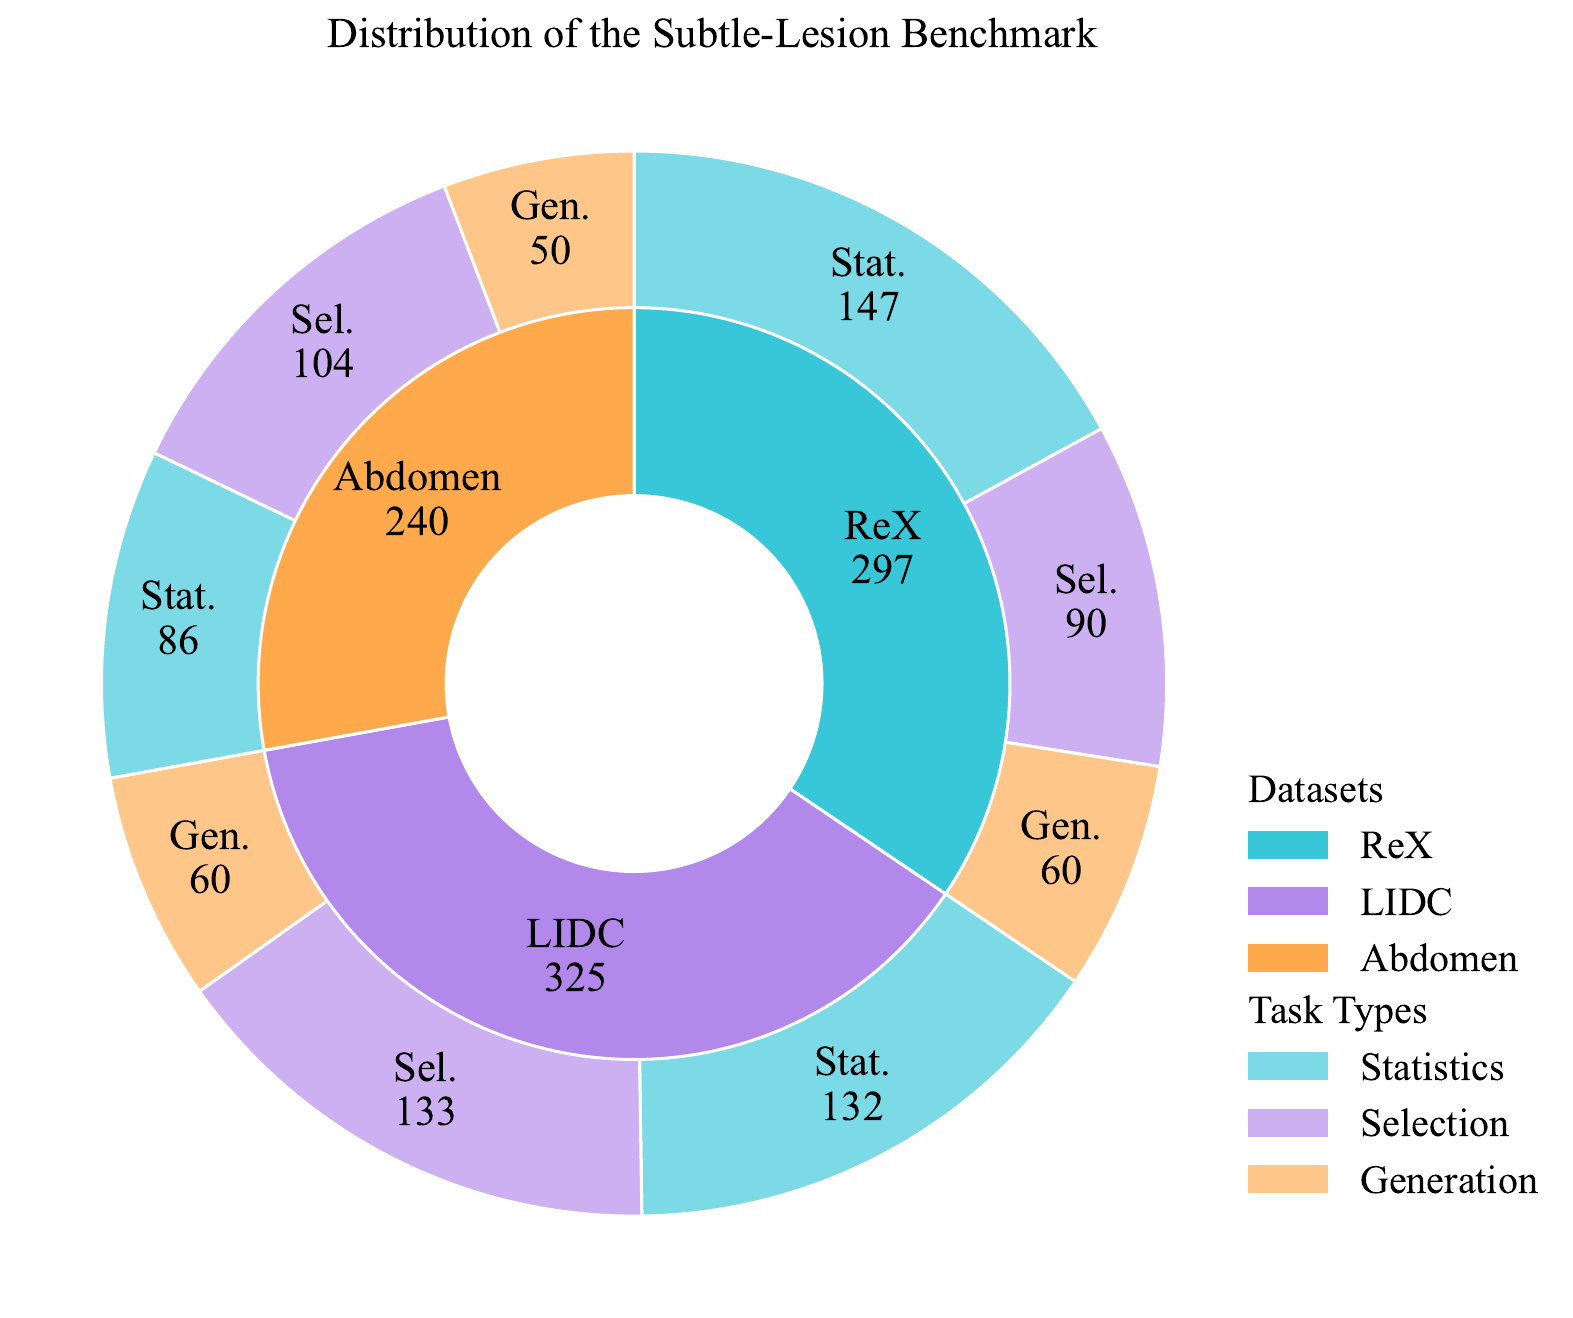
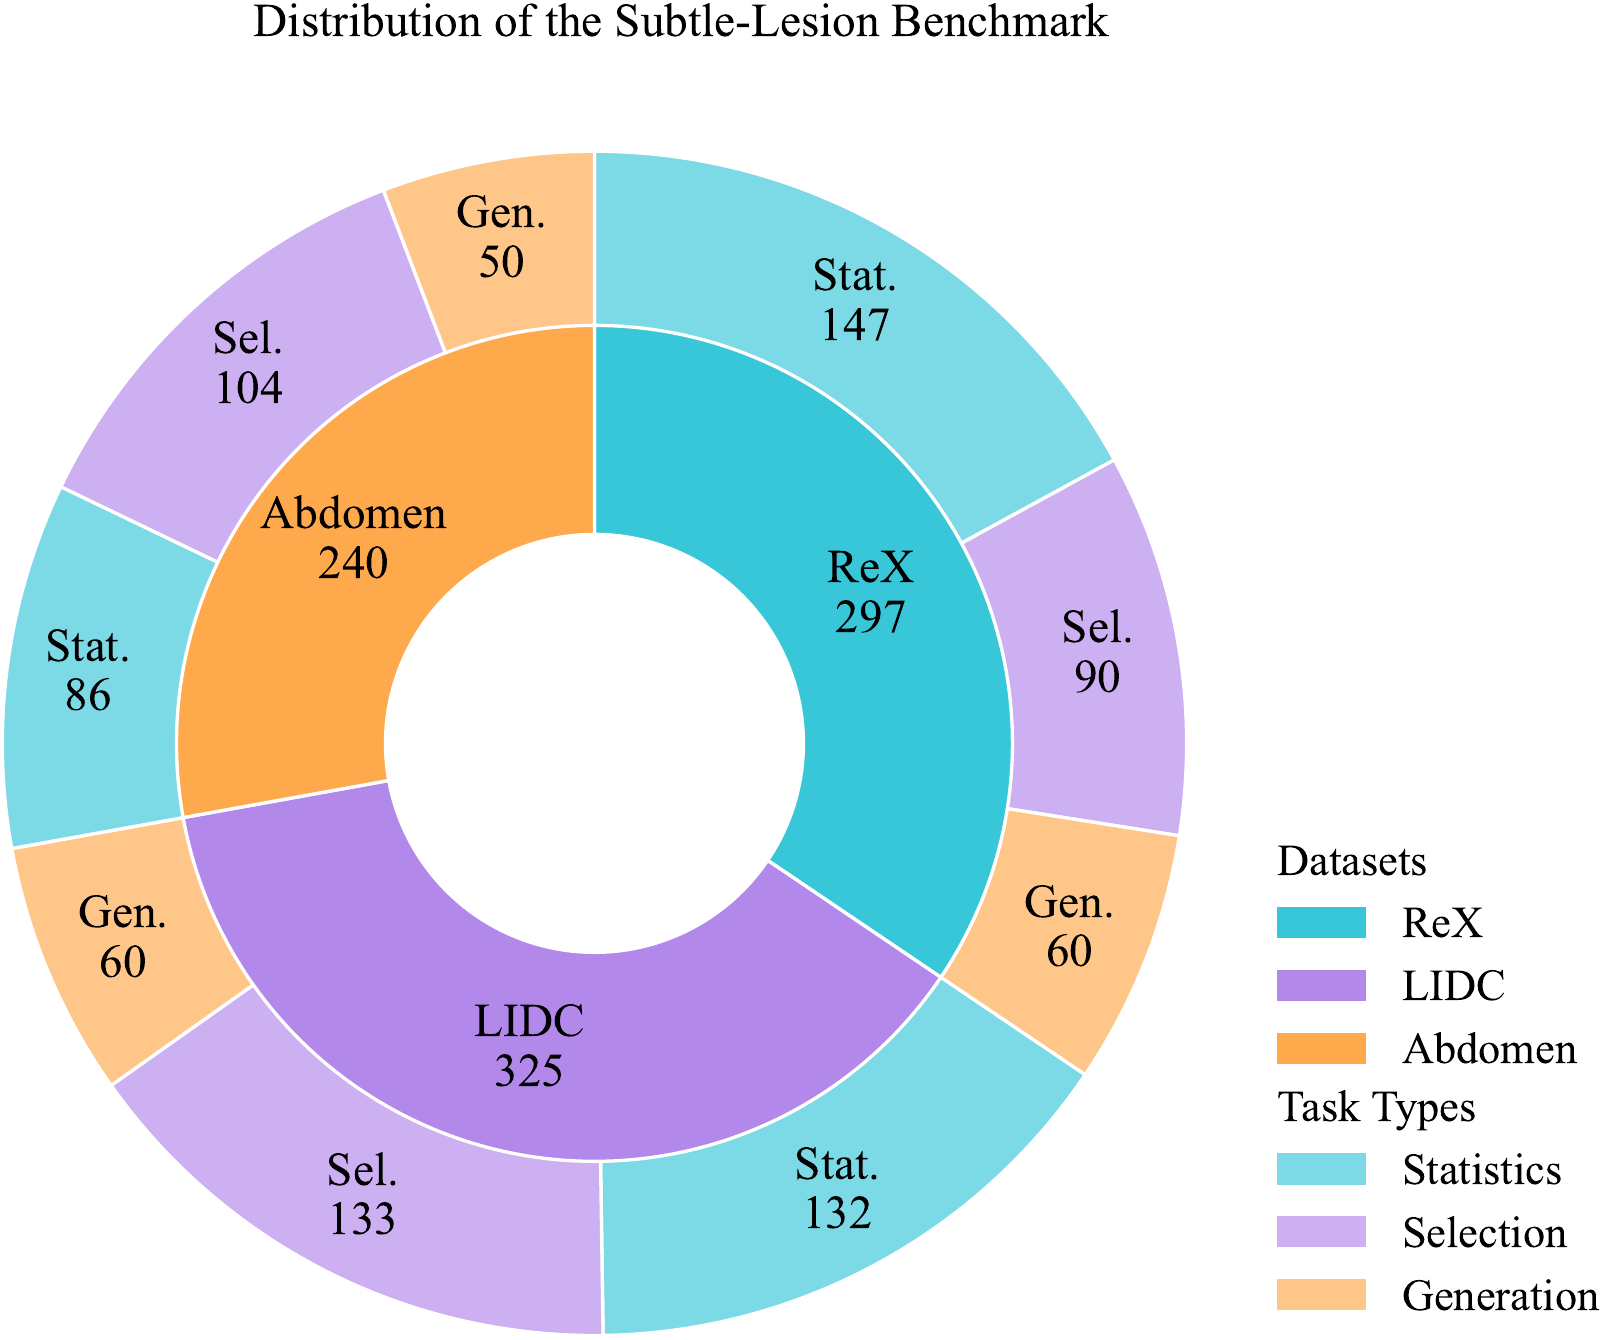
Refresh README with paper figures and usage guide

diff --git a/README.md b/README.md
@@ -1,75 +1,129 @@
-# EasyLens
+<div align="center">
 
-**A Training-Free Plug-and-Play Subtle-Lesion Representation Amplifier for Medical Vision-Language Models**
+<h1>EasyLens: A Training-Free Plug-and-Play Subtle-Lesion Representation Amplifier for Medical Vision-Language Models</h1>
 
-Paper: [arXiv:2606.06379](https://arxiv.org/abs/2606.06379)
+<p>
+  <a href="https://arxiv.org/abs/2606.06379"><img src="https://img.shields.io/badge/arXiv-2606.06379-b31b1b" alt="arXiv paper"></a>
+  <a href="https://arxiv.org/pdf/2606.06379"><img src="https://img.shields.io/badge/Paper-PDF-0b7285" alt="Paper PDF"></a>
+</p>
 
-EasyLens is an inference-time adapter for frozen medical vision-language models. It uses an offline prototype bank to identify lesion-relevant visual patches and applies morphology-guided residual enhancement before the frozen model consumes the visual sequence. It does not update the backbone and does not require lesion masks at inference time.
+<p>Qiwei Zeng, Hao Wang, Jinghao Lin, Shuchang Ye, Yuezhe Yang,<br>
+Yige Peng, Haoyuan Che, Jinman Kim, Lei Bi</p>
+
+<p>Jilin University · The University of Sydney · Northeastern University · Shanghai Jiao Tong University</p>
+
+</div>
+
+## Overview
+
+**EasyLens** is a training-free inference-time adapter that helps frozen medical vision-language models (VLMs) recognize subtle lesions. It builds an offline pathology-anatomy prototype bank, selects lesion-relevant visual patches, and strengthens their representations before the frozen VLM processes them. No backbone update or lesion mask is needed at inference time.
+
+![EasyLens overview: weak lesion evidence is selected and amplified before report generation](assets/figure_overview.png)
+
+Small, low-contrast findings can be present in early patch representations but lose prominence as visual tokens are aggregated. EasyLens works at the patch level to keep that evidence visible.
 
 <p align="center">
-  <img src="assets/benchmark_distribution.png" width="72%" alt="Subtle-lesion benchmark distribution">
+  <img src="assets/figure_representation_dilution.png" width="68%" alt="Subtle-lesion evidence in early and late visual representations">
 </p>
 
 ## Method
 
-EasyLens has three components:
+![EasyLens pipeline: EasyBank construction and training-free inference](assets/figure_flow.png)
 
-1. **EasyBank** clusters one normalized mean lesion embedding per construction image, stores patch-level lesion supports under the image's assigned prototype, estimates a morphology prior for each prototype, and clusters normal embeddings separately at every patch location.
-2. **EasyTag** contrasts each inference patch with its top-M lesion prototypes and same-location normal prototypes, applies the counterfactual sigmoid score, calibrates the global top-K0 seeds with morphology priors, and retains the global top-K candidates by calibrated score.
-3. **EasyAmplifier** retrieves references only from the selected prototype's support memory and applies continuous morphology-weighted residual updates.
+1. **EasyBank** builds lesion prototypes, prototype-specific support memories, morphology priors, and location-wise normal prototypes from an independent construction set.
+2. **EasyTag** contrasts each inference patch with lesion and anatomy-matched normal prototypes, then selects candidates using counterfactual scores and morphology-aware calibration.
+3. **EasyAmplifier** retrieves support from the selected lesion prototype and applies a morphology-guided residual update to the frozen visual tokens.
 
-The implementation is in `code/method/easylens_core.py`. Schema-v2 banks implement the paper formulation. Older schema-v1 banks remain readable for audit compatibility and are explicitly labeled `legacy_approximation` in run metadata.
+The equation-literal implementation is in [`code/method/easylens_core.py`](code/method/easylens_core.py). The public builder creates schema-v2 banks. Older schema-v1 banks remain readable for audit compatibility and are labeled `legacy_approximation` at runtime.
 
-## Repository layout
+## Subtle-Lesion Benchmark
 
-```text
-.
-├── benchmarks/              # 9 benchmark definitions, prompts, and answer labels
-├── benchmark_sample_ids/    # Published sample lists
-├── banks/                   # Bank schemas, identities, and checksums; no tensors
-├── code/
-│   ├── method/              # EasyLens core
-│   ├── runners/             # Evaluation, scoring, and bank construction
-│   ├── dependencies/        # Shared runner utilities
-│   └── launch_scripts/      # Reproducible entry points
-├── configs/                 # Official task settings
-├── tests/                   # Synthetic method and metric tests
-└── requirements.txt
-```
-
-## Public release contents
-
-The public package includes all nine benchmark definitions, prompts, answer labels, sample lists, official evaluation runners, metric implementations, bank-construction code, task configuration, and synthetic tests.
-
-It does not include model checkpoints, adapter weights, selector checkpoints, EasyBank `.pt` tensors, source medical images, masks, or raw reports. Weight-like extensions are blocked by `.gitignore`, and the release validator fails if any such file is present.
-
-## Installation
-
-Python 3.10 or newer and a CUDA-capable PyTorch installation are recommended.
-
-```bash
-git clone https://github.com/wanghao1118/easylens.git
-cd easylens
-python3 -m pip install -r requirements.txt
-```
-
-Model-specific backbones such as LLaVA-Med, RadFM, Lingshu, and Hulu-Med may require their upstream runtime dependencies in addition to `requirements.txt`.
-
-## Data and model preparation
-
-The benchmark metadata, questions, answer labels, and sample lists are included in this repository. Source medical images are not redistributed; obtain each dataset and model from its original provider under the applicable terms, then arrange authorized evaluation images under the relative paths recorded in `benchmarks/*/images/`.
-
-The published benchmark payload is copied byte-for-byte from the May 2026 Google Drive evaluation bundle. Its 46 metadata and sample-list files are pinned by `configs/benchmark_source_manifest.json`; the release validator recomputes the aggregate SHA-256 digest so benchmark edits cannot be mistaken for the paper evaluation set.
-
-The subtle-lesion benchmark sizes are:
+The released benchmark covers regional statistics (**Stat.**), region selection (**Sel.**), and lesion-aware report generation (**Gen.**) across three CT datasets. Its questions, answer labels, and sample lists are included in this repository.
 
 | Dataset | Stat. | Sel. | Gen. |
-|---|---:|---:|---:|
+|:--|--:|--:|--:|
 | ReXGroundingCT | 147 | 90 | 60 |
 | LIDC-IDRI | 132 | 133 | 60 |
 | AbdomenAtlas 3.0 Mini | 86 | 104 | 50 |
 
-For report generation, the runtime needs a per-sample target description. The unchanged Google Drive exports for LIDC-IDRI and AbdomenAtlas contain synthetic benchmark target text in the answer's `Target finding:` line, which the loader extracts without editing the benchmark. The ReX export contains only a binary answer and therefore cannot reproduce the paper's lesion-token probe by itself. Users with authorized access must prepare a local evaluation copy:
+<p align="center">
+  <img src="assets/benchmark_distribution.png" width="72%" alt="Distribution of the nine subtle-lesion benchmark tasks">
+</p>
+
+The 46 published benchmark metadata and sample-list files are pinned by [`configs/benchmark_source_manifest.json`](configs/benchmark_source_manifest.json). The paper figures above are illustrative assets; original dataset images, masks, raw reports, model weights, and EasyBank tensors are not redistributed here.
+
+## Results
+
+The following are **paper-reported** scores for MedGemma1.5 before and after EasyLens. Each cell shows **frozen backbone -> EasyLens**; higher is better. See [Table 1 of the paper](https://arxiv.org/html/2606.06379v3) for metric definitions and comparisons with other models.
+
+| Dataset | Stat. | Sel. | Gen. |
+|:--|:--:|:--:|:--:|
+| ReXGroundingCT | 42.86 -> **66.67** | 23.33 -> **31.11** | 4.41 -> **5.15** |
+| LIDC-IDRI | 20.45 -> **30.30** | 27.82 -> **36.09** | 41.93 -> **45.86** |
+| AbdomenAtlas 3.0 Mini | 15.12 -> **52.33** | 49.04 -> **55.77** | 38.18 -> **40.67** |
+
+The paper also evaluates transfer to LLaVA-Med, RadFM, Lingshu, and MedGemma, and reports gains in subtle-lesion report generation across these frozen backbones. These table values are paper results; locally rebuilt banks are not the historical artifacts used to produce them.
+
+## Qualitative Analysis
+
+In the paper's pulmonary-nodule case study, EasyTag selects lesion-relevant patches and EasyAmplifier strengthens their response. The EasyLens-enhanced model mentions the finding that the frozen backbone omits.
+
+![EasyLens case study showing patch selection, representation enhancement, and generated reports](assets/figure_cs1.png)
+
+## Release Contents
+
+| Path | Contents |
+|:--|:--|
+| [`code/method/`](code/method) | EasyLens core and bank-construction code |
+| [`code/runners/`](code/runners) | Official evaluation and scoring entry points |
+| [`code/launch_scripts/`](code/launch_scripts) | Bank-building and evaluation commands |
+| [`benchmarks/`](benchmarks) | Nine benchmark definitions, prompts, and answer labels |
+| [`benchmark_sample_ids/`](benchmark_sample_ids) | Published evaluation sample lists |
+| [`banks/`](banks) | Bank schema notes and legacy artifact checksums, without tensors |
+| [`configs/`](configs) | Task settings and benchmark provenance |
+| [`tests/`](tests) | Synthetic method and release tests |
+
+## Quick Start
+
+Python 3.10 or newer and a CUDA-capable PyTorch installation are recommended. Model-specific backbones may require their upstream dependencies in addition to this repository's requirements.
+
+```bash
+git clone https://github.com/wanghao1118/EasyLens.git
+cd EasyLens
+python3 -m pip install -r requirements.txt
+```
+
+The repository includes benchmark metadata, but you must obtain the evaluation images and the model checkpoint from their original providers under the applicable access terms. Place authorized evaluation images at the relative paths referenced by `benchmarks/*/images/`.
+
+## Build EasyBank
+
+Provide an **independent construction split**, disjoint from evaluation. `BANK_SOURCE_ROOT` should contain `rex/`, `lidc/`, and `abdomen/`, each with a `manifest.csv`, aligned images, and pixel-level lesion supervision. The builder accepts `mask_path`, `mask`, or `raw_mask` fields for ordinary masks. ReX 4D segmentations and LIDC polygons can be supplied through `REX_RAW_ROOT` and `LIDC_SOURCE_MANIFEST`, respectively. Coarse VQA grid labels are not substitutes for lesion masks.
+
+```bash
+export MODEL_PATH=/path/to/medgemma-1.5-4b-it
+export BANK_SOURCE_ROOT=/path/to/independent_construction_split
+export BANK_ROOT=/path/to/banks/subtle_lesion_medgemma15
+export REX_RAW_ROOT=/path/to/authorized/rex/raw
+export LIDC_SOURCE_MANIFEST=/path/to/authorized/lidc_source_manifest.csv
+
+bash code/launch_scripts/build_subtle_lesion_banks_medgemma15.sh
+```
+
+This produces one schema-v2 `.pt` bank per dataset: `rex_shape_bank_v2.pt`, `lidc_shape_bank_v2.pt`, and `abdomen_shape_bank_v2.pt`. The Stat., Sel., and Gen. tasks for a dataset share its bank. Construction samples and bank tensors are not part of the public release.
+
+## Run Evaluation
+
+```bash
+python3 code/runners/easylens_official_runner.py subtle-medgemma15 \
+  --model-path /path/to/medgemma-1.5-4b-it \
+  --benchmark-root /path/to/benchmarks \
+  --bank-root /path/to/banks/subtle_lesion_medgemma15 \
+  --output-root outputs/subtle_lesion_medgemma15
+```
+
+Use `--tasks rex_count rex_single_select rex_report` to run only selected tasks. The packaged operating points are in [`configs/official_runner_config.json`](configs/official_runner_config.json); its `paper_equations_27_40` method profile uses global candidate selection and prototype-consistent support retrieval.
+
+For ReX report generation, the published binary answer alone does not contain the target description required by the paper's lesion-token probe. If you have authorized access to the source manifest, prepare a local evaluation copy first:
 
 ```bash
 python3 code/tools/prepare_rex_report_targets.py \
@@ -78,100 +132,15 @@ python3 code/tools/prepare_rex_report_targets.py \
   --output-dir /path/to/local/benchmarks/rex_report
 ```
 
-Place or link the authorized evaluation images under the resulting `images/` directory. The Appendix B.2 probe then derives a strict, per-sample lesion-token set and evaluates only the first three decoding steps.
+Place the corresponding authorized images under that local benchmark's `images/` directory. The report probe evaluates the first three decoding steps. Its vocabulary top-K is set to 50 in this release configuration; the paper defines top-K without fixing a numeric value.
 
-## Build EasyBank
+## Research Use
 
-Use an independent construction split, not a held-out evaluation split. `BANK_SOURCE_ROOT` must contain one source directory per dataset—`rex/`, `lidc/`, and `abdomen/`—and each directory must contain a `manifest.csv`, aligned images, and pixel-level lesion supervision. Generic 2D/3D masks can be referenced by `mask_path`, `mask`, or `raw_mask`. ReX 4D finding segmentations are projected from an authorized raw root by setting `REX_RAW_ROOT`; LIDC polygons are joined through `LIDC_SOURCE_MANIFEST`. Coarse VQA grid labels are rejected by default because they are not equivalent to the lesion masks used in the paper.
-
-```bash
-export MODEL_PATH=/path/to/medgemma-1.5-4b-it
-export BANK_SOURCE_ROOT=/path/to/independent_bank_construction_split
-export BANK_ROOT=/path/to/output/banks/subtle_lesion_medgemma15
-export REX_RAW_ROOT=/path/to/authorized/rex/raw
-export LIDC_SOURCE_MANIFEST=/path/to/authorized/lidc_source_manifest.csv
-
-bash code/launch_scripts/build_subtle_lesion_banks_medgemma15.sh
-```
-
-Useful construction controls include `NUM_LESION_PROTOTYPES`, `NUM_NORMAL_PROTOTYPES`, `MAX_LESION_TOKENS`, `MAX_BG_GLOBAL_TOKENS`, `SHAPE_RADIUS`, and `SEED`.
-
-The builder writes schema-v2 `.pt` files containing:
-
-- image-balanced lesion prototypes;
-- cluster-conditioned lesion support memories;
-- prototype-specific morphology priors normalized to `[0, 1]`;
-- location-wise anatomy-aware normal prototypes;
-- schema and construction metadata.
-
-It writes one reusable bank per dataset: `rex_shape_bank_v2.pt`, `lidc_shape_bank_v2.pt`, and `abdomen_shape_bank_v2.pt`. The corresponding Stat., Sel., and Gen. tasks all consume the same dataset bank, matching the paper's construction-set definition.
-
-## Run the subtle-lesion evaluation
-
-```bash
-export MODEL_PATH=/path/to/medgemma-1.5-4b-it
-export BENCHMARK_ROOT=/path/to/benchmarks
-export BANK_ROOT=/path/to/banks/subtle_lesion_medgemma15
-export OUTPUT_ROOT=outputs/subtle_lesion_medgemma15
-
-python3 code/runners/easylens_official_runner.py subtle-medgemma15 \
-  --model-path "$MODEL_PATH" \
-  --benchmark-root "$BENCHMARK_ROOT" \
-  --bank-root "$BANK_ROOT" \
-  --output-root "$OUTPUT_ROOT"
-```
-
-Run selected tasks with `--tasks`, for example:
-
-```bash
-python3 code/runners/easylens_official_runner.py subtle-medgemma15 \
-  --model-path "$MODEL_PATH" \
-  --benchmark-root "$BENCHMARK_ROOT" \
-  --bank-root "$BANK_ROOT" \
-  --output-root "$OUTPUT_ROOT" \
-  --tasks rex_count rex_single_select rex_report
-```
-
-The packaged operating points are stored in `configs/official_runner_config.json`. The method path is identified as `paper_equations_27_40`: global top-K0 seed selection, global top-K calibrated candidate selection, and one nearest support retrieved from the recalled prototype memory. This is an equation-literal implementation, not a claim that a locally rebuilt bank reproduces the paper's table artifacts. Shared defaults include vision layer 1, prototype top-M of 1, counterfactual temperature 1.0, morphology weight 1.0, a 96-token limit for Stat./Sel., a 160-token limit for Gen., and a three-step report probe window. Dataset-task values for residual strength β (the paper's α), candidate budget K, and seed budget K0 are recorded separately in the same file.
-
-## Report-generation probe
-
-The Gen. metric follows Appendix B.2:
-
-1. derive the strict lesion-token set from the sample's target description;
-2. compute the next-token distribution for the first three decoding steps;
-3. intersect the lesion-token set with the vocabulary top-K at each step;
-4. sum the retained probability mass and report `100 ×` its three-step mean.
-
-`--probe-vocab-topk` controls K and is set to 50 in the release configuration. The arXiv v3 equations define top-K but do not state its numeric value, so 50 is an explicit release default rather than a paper-verifiable constant. The probe is evaluation-only and does not change the prompt or generation procedure.
-
-## Verification
-
-Run the synthetic tests with:
-
-```bash
-python3 -m unittest discover -s tests -v
-```
-
-Validate that the public package contains all benchmarks and evaluation entry points and contains no weights:
-
-```bash
-python3 code/tools/validate_release_package.py
-```
-
-Build the validated source package with the same exclusion policy:
-
-```bash
-bash code/tools/build_release_package.sh dist/easylens-source-release.tar.gz
-```
-
-Legacy artifact hashes are retained only for audit traceability; the tensors themselves are excluded. A runtime warning and `bank_alignment=legacy_approximation` prevent separately obtained legacy results from being confused with the equation-literal schema-v2 implementation. The release does not publish the private construction samples or claim that a locally rebuilt bank is the artifact behind the paper's tables.
-
-## Research-use notice
-
-EasyLens is a research prototype and is not a standalone clinical diagnostic system. Users are responsible for dataset access, privacy, licensing, and clinical validation requirements.
+EasyLens is a research prototype, not a standalone clinical diagnostic system. Users are responsible for dataset access, privacy, licensing, and clinical validation. Apart from the paper figures in `assets/`, the release contains no original dataset images, masks, raw reports, model checkpoints, selector weights, or EasyBank tensors.
 
 ## Citation
+
+If EasyLens is useful in your research, please cite the [paper](https://arxiv.org/abs/2606.06379):
 
 ```bibtex
 @article{easylens2026,
